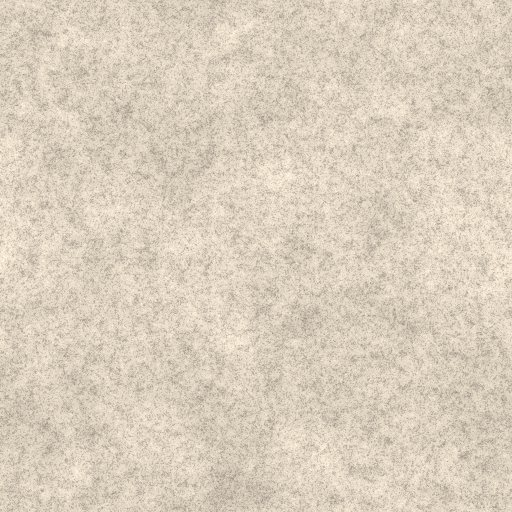
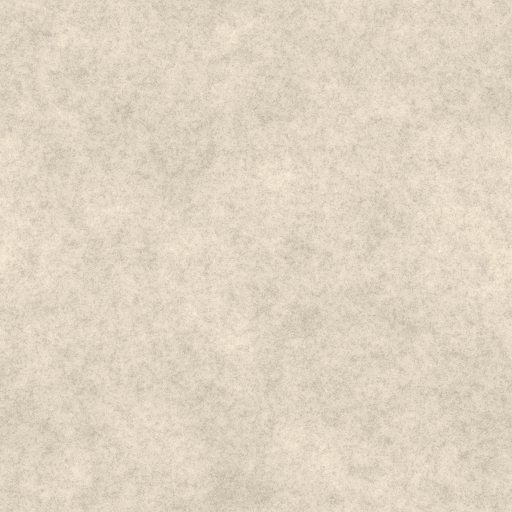
final: びんのなかのもり – 霧吹きで乾いた苔が緑にふくらむ写実ジャー、小石と小枝の橋、曇りふき、虫めがね
Claude-Session: https://claude.ai/code/session_017tygc2FTnojJb8NiA3C8BX

diff --git a/games/261127-57/js/main.js b/games/261127-57/js/main.js
@@ -682,9 +682,17 @@ function updateTools(dt) {
 }
 // orientation for a hand whose forearm reaches in from the lower-right of the view
 function armQuat(at, fingerBend, dorsalHint) {
-  const anchor = camera.position.clone().addScaledVector(camR, 0.26).addScaledVector(UP, -0.22).addScaledVector(camF, 0.05);
-  const arm = anchor.sub(at).normalize();
-  const fingers = arm.clone().negate().addScaledVector(UP, -fingerBend).normalize();
+  // the camera is the girl's eye. Inside the jar the forearm has to come in over the rim;
+  // outside it comes from her shoulder just below-right of the eye.
+  let elbow;
+  if (Math.hypot(at.x, at.z) < JAR.r + 0.01 && at.y < JAR.h) {
+    elbow = V3(at.x * 0.3 + 0.15, JAR.h + 0.14, Math.max(JAR.r + 0.05, at.z + 0.12));
+  } else {
+    const shoulder = camera.position.clone().addScaledVector(camR, 0.16).addScaledVector(UP, -0.17).addScaledVector(camF, -0.02);
+    elbow = shoulder.lerp(at, 0.5).addScaledVector(UP, -0.12);
+  }
+  const arm = elbow.sub(at).normalize();
+  const fingers = arm.clone().negate().addScaledVector(UP, -fingerBend * 0.3).normalize();
   return basis(fingers, dorsalHint || UP);
 }
 function placeHand(h, q, localPt, worldAt, dt, instant = false) {
@@ -723,9 +731,9 @@ function pump(obj, dir) {
     }
   }
   if (lingering) {
-    for (let i = 0; i < 10; i++) {
-      const p = tip.clone().addScaledVector(dir, 0.04 + Math.random() * 0.06);
-      particles.emit(2, p, dir.clone().multiplyScalar(0.05).add(V3((Math.random() - 0.5) * 0.02, -0.01, (Math.random() - 0.5) * 0.02)), 5 + Math.random() * 4, 0.012 + Math.random() * 0.01, 0.25);
+    for (let i = 0; i < 22; i++) {
+      const p = tip.clone().addScaledVector(dir, 0.08 + Math.random() * 0.14).add(V3((Math.random() - 0.5) * 0.04, 0, (Math.random() - 0.5) * 0.04));
+      particles.emit(2, p, dir.clone().multiplyScalar(0.02).add(V3((Math.random() - 0.5) * 0.03, -0.015, (Math.random() - 0.5) * 0.03)), 6 + Math.random() * 6, 0.022 + Math.random() * 0.025, 0.16);
     }
   }
   // spraying the flood again -> "huh?"
@@ -896,6 +904,17 @@ function placeTrain() {
     u -= (car.userData.len + 0.003) / circ;
   }
 }
+// dust motes drifting in the morning sunbeam (window -> table)
+let dustAcc = 0;
+function updateDust(dt) {
+  dustAcc += dt * 9;
+  while (dustAcc > 1) {
+    dustAcc -= 1;
+    const t = Math.random();
+    const p = V3(-0.45 + Math.random() * 0.9, 0.05 + Math.random() * 0.7, -0.55 + Math.random() * 0.85);
+    particles.emit(3, p, V3((Math.random() - 0.5) * 0.006, (Math.random() - 0.5) * 0.004, (Math.random() - 0.5) * 0.006), 6 + t * 6, 0.0012 + Math.random() * 0.0015, 1);
+  }
+}
 function updateTown(dt) {
   if (train.running) train.speed = Math.min(0.045, train.speed + dt * 0.02);
   if (train.speed > 0) {
@@ -954,9 +973,9 @@ function updateDad(dt) {
     // a strong jet instead of mist
     dadHand.squeeze = 0.5 + 0.5 * Math.sin(T * 20);
     const tipW = tool.userData.tip.clone().applyMatrix4(tool.matrixWorld);
-    for (let i = 0; i < 6; i++) {
+    for (let i = 0; i < 9; i++) {
       const d = dir.clone().add(V3((Math.random() - 0.5) * 0.05, (Math.random() - 0.5) * 0.05, (Math.random() - 0.5) * 0.05)).normalize();
-      particles.emit(1, tipW, d.multiplyScalar(1.2 + Math.random() * 0.4), 0.8, 0.0012 + Math.random() * 0.0016);
+      particles.emit(1, tipW, d.multiplyScalar(1.2 + Math.random() * 0.4), 0.8, 0.0022 + Math.random() * 0.0025);
     }
     G.jetT = (G.jetT || 0) - dt;
     if (G.jetT <= 0) { sfx.jet(); G.jetT = 0.45; }
@@ -1140,7 +1159,7 @@ const FAST = !!Q.get('fast');
 function loop() {
   requestAnimationFrame(loop);
   const dt = Math.min(0.05, clock.getDelta());
-  const sub = DBG ? 6 : 1; // debug: fast-forward the simulation (headless rendering is slow)
+  const sub = G.freeze ? 0 : DBG ? 6 : 1; // debug: fast-forward the simulation (headless rendering is slow)
   for (let k = 0; k < sub; k++) {
     const d = DBG ? 0.05 : dt;
     updateFlow(d);
@@ -1153,6 +1172,7 @@ function loop() {
     stones.update(d, () => sfx.clack());
     twigs.update(d, () => sfx.twig());
     updateTown(d);
+    updateDust(d);
     girl.update(d); dad.update(d);
   }
   updateHints(DBG ? 0.3 : dt);
@@ -1191,8 +1211,12 @@ window.__api = {
   light: () => { G.lit = true; train.running = true; },
   cam: () => ({ pos: camera.position.toArray(), fov: camera.fov }),
   setCam: (p, t) => { cam.pos.set(...p); cam.tgt.set(...t); cam.t = 1; cam.shot = null; },
+  pcount: () => { let n = 0, k1 = 0; for (let i = 0; i < particles.cap; i++) if (particles.life[i] > 0) { n++; if (particles.kind[i] === 1) k1++; } return [n, k1]; },
+  armDir: () => V3(0, -1, 0).applyQuaternion(hand.group.quaternion).toArray().concat(hand.group.position.toArray(), camera.position.toArray()),
   handPos: () => hand.group.position.toArray(),
   look: (k = 0.45) => { const h = hand.group.position.clone(); const c = camera.position.clone(); const p = c.lerp(h, k); cam.pos.copy(p); cam.tgt.copy(h); cam.t = 1; cam.shot = null; },
+  pcount: () => { let n = 0, k1 = 0; for (let i = 0; i < particles.cap; i++) if (particles.life[i] > 0) { n++; if (particles.kind[i] === 1) k1++; } return [n, k1]; },
+  armDir: () => V3(0, -1, 0).applyQuaternion(hand.group.quaternion).toArray().concat(hand.group.position.toArray(), camera.position.toArray()),
   handPos: () => hand.group.position.toArray(),
   look: (k = 0.45) => { const h = hand.group.position.clone(); const c = camera.position.clone(); const p = c.lerp(h, k); cam.pos.copy(p); cam.tgt.copy(h); cam.t = 1; cam.shot = null; },
   parts: () => { let n = 0; for (let i = 0; i < particles.cap; i++) if (particles.life[i] > 0) n++; const t = tools.spray.obj.userData.tip.clone().applyMatrix4(tools.spray.obj.matrixWorld); return { n, tip: t.toArray(), free: particles.free.length, pump: G.pumpT, press: G.pressing, tp: G.touchPoint && G.touchPoint.toArray() }; },

diff --git a/games/261127-57/js/particles.js b/games/261127-57/js/particles.js
@@ -13,6 +13,7 @@ export class Particles {
     this.size = new Float32Array(cap);
     this.kind = new Uint8Array(cap);
     this.alpha = new Float32Array(cap);
+    this.a0 = new Float32Array(cap);
     this.free = [];
     for (let i = cap - 1; i >= 0; i--) this.free.push(i);
     const g = new THREE.BufferGeometry();
@@ -60,7 +61,7 @@ export class Particles {
             a = vA * (0.5 + 0.5 * pow(1.0 - z, 1.5));
             col = vec3(0.55, 0.62, 0.62) + uSunCol * (vPhase * 1.5 + exp(-dot(q - vec2(-0.3, 0.35), q - vec2(-0.3, 0.35)) * 40.0) * 3.0);
           } else if (vK < 2.5) { // steam puff
-            a = exp(-r2 * 2.2) * vA * 0.55;
+            a = exp(-r2 * 3.0) * vA * 0.5;
             col = vec3(0.92) + uSunCol * vPhase * 0.8;
           } else { // dust mote
             a = exp(-r2 * 5.0) * vA;
@@ -84,7 +85,7 @@ export class Particles {
     this.pos.set([p.x, p.y, p.z], i * 3);
     this.vel.set([v.x, v.y, v.z], i * 3);
     this.life[i] = life; this.max[i] = life;
-    this.size[i] = size; this.kind[i] = kind; this.alpha[i] = alpha;
+    this.size[i] = size; this.kind[i] = kind; this.alpha[i] = alpha; this.a0[i] = alpha;
     this.aKind.array[i] = kind;
   }
 
@@ -109,7 +110,12 @@ export class Particles {
       }
       P[o] += Vv[o] * dt; P[o + 1] += Vv[o + 1] * dt; P[o + 2] += Vv[o + 2] * dt;
       const fade = Math.min(1, this.life[i] / Math.min(0.4, this.max[i] * 0.5));
-      if (k === 2) { this.size[i] += dt * 0.012; this.alpha[i] = fade * 0.8; }
+      if (k === 2) {
+        this.size[i] += dt * 0.006; this.alpha[i] = fade * this.a0[i] * Math.min(1, (this.max[i] - this.life[i]) / 0.6);
+        const r = Math.hypot(P[o], P[o + 2]);
+        if (r > 0.14 && r < 0.2 && P[o + 1] < 0.27) { Vv[o] -= P[o] / r * dt * 0.05; Vv[o + 2] -= P[o + 2] / r * dt * 0.05; }
+        if (P[o + 1] < 0.1 && r < 0.16) Vv[o + 1] += dt * 0.03;
+      }
       else if (k === 3) { this.alpha[i] = fade * Math.min(1, (this.max[i] - this.life[i]) / 1.5) * 0.7; }
       else this.alpha[i] = Math.min(this.alpha[i], fade);
       if (collide && (k === 0 || k === 1)) {

diff --git a/games/261127-57/js/people.js b/games/261127-57/js/people.js
@@ -152,16 +152,17 @@ export class Figure {
     const hop = Math.max(0, Math.sin(this.t * 10)) * 0.045 * this.hop;
     this.mesh.position.y = hop;
     for (const m of this.extra) m.position.y = hop;
-    // arms: clap above the table / raise
+    // arms: hands up high and clap (visible from behind)
     const c = this.clap;
     const cl = Math.max(0, Math.sin(this.t * 14));
     if (b.upperL) {
-      rot(b.upperL, new THREE.Vector3(1, 0, 0), c * 0.9);
-      b.upperL.quaternion.multiply(_q.setFromAxisAngle(new THREE.Vector3(0, 1, 0), -c * (0.25 + 0.25 * cl)));
-      rot(b.upperR, new THREE.Vector3(1, 0, 0), c * 0.9);
-      b.upperR.quaternion.multiply(_q.setFromAxisAngle(new THREE.Vector3(0, 1, 0), c * (0.25 + 0.25 * cl)));
-      rot(b.foreL, new THREE.Vector3(0, 0, 1), -c * 0.6);
-      rot(b.foreR, new THREE.Vector3(0, 0, 1), c * 0.6);
+      const X = new THREE.Vector3(1, 0, 0), Z = new THREE.Vector3(0, 0, 1);
+      rot(b.upperL, X, c * 0.75);
+      b.upperL.quaternion.multiply(_q.setFromAxisAngle(Z, c * (0.05 + 0.22 * cl)));
+      rot(b.upperR, X, c * 0.75);
+      b.upperR.quaternion.multiply(_q.setFromAxisAngle(Z, -c * (0.05 + 0.22 * cl)));
+      rot(b.foreL, X, c * 0.35);
+      rot(b.foreR, X, c * 0.35);
     }
   }
 }

diff --git a/games/261127-57/tools/gen_textures.py b/games/261127-57/tools/gen_textures.py
@@ -278,11 +278,11 @@ def gen_plaster(S=512):
     trowel = np.clip(fftnoise(S, S, 3.5, seed=24), -0.5, 2)
     hgt += 0.5 * np.round(trowel * 2) / 2
     base = srgb([226, 214, 196])
-    c = base[None, None, :] * (1 + 0.035 * n1[..., None] + 0.02 * n2[..., None])
-    c -= 0.03 * np.clip(-n3, 0, 3)[..., None]
+    c = base[None, None, :] * (1 + 0.025 * n1[..., None] + 0.008 * n2[..., None])
+    c -= 0.008 * np.clip(-n3, 0, 3)[..., None]
     ao = ao_from_height(hgt, 4, 0.8)
-    save_rgb(c * (0.85 + 0.15 * ao[..., None]), 'plaster_c.jpg', 84)
-    save_rgb(normal_from_height(hgt, 1.0), 'plaster_n.jpg', 86)
+    save_rgb(c * (0.95 + 0.05 * ao[..., None]), 'plaster_c.jpg', 84)
+    save_rgb(normal_from_height(blur_wrap(hgt, 1.2), 0.8), 'plaster_n.jpg', 86)
     save_orm(ao, 0.88 + 0.08 * n2.clip(-1, 1), 0.0, 'plaster_orm.jpg')
     print('plaster done')
 

diff --git a/games/261127-57/NOTES.md b/games/261127-57/NOTES.md
@@ -1,0 +1,57 @@
+# びんのなかのもり（びんの中の小さな森）— 制作メモ
+
+## 作ったもの
+晩秋の朝、窓辺の机の上の大きなガラスびん。中には乾いて茶色く縮れた苔、小さな家、小さな線路と列車。
+白衣を着た女の子の「手」になって、霧吹き・小石・小枝・ふた・スポイト・虫めがねで小さな森を育てる。
+文字・数字は画面に一切出さない（タイトルタグのみ）。
+
+| 場面 | 触ること | 小さなゴール |
+|---|---|---|
+| はじまり | 帽子掛けの白衣をタップ → 白衣が女の子に飛んで着替える | 研究員になる |
+| 1 霧吹き | 押しているあいだ霧が出る。霧が落ちた所だけ苔が水を吸う。途中でパパが霧吹きを強くしすぎて水びたし → スポイトで吸ってコップに捨てる | 苔の6割が緑・水たまりが消える |
+| 2 小石・小枝・ふた | なぞった線に小石が並ぶ／小川をまたいでなぞると小枝の橋がかかる／ふたを閉めると内側が曇って結露し、指でなぞった線だけ晴れる | 小道＋橋＋ふた＋曇りふき |
+| 3 虫めがね | 当てた所が拡大して見える。家に当てると灯りがともり、列車に当てると出発 | 灯り＋出発 → その後は全部の道具で好きなだけ |
+
+- 変化は触った場所・長さ・回数・道具の分だけ起きる（全面一斉切替なし、毎回仕上がりが違う）。
+  - 苔: 128×128 の湿り気マップ。霧の粒子1つ1つが落ちた所に湿り気を足す。湿り気は毛細管的にゆっくりにじむが乾かない。上限を超えると水たまり（浅水流シミュレーション、低い所＝小川へ流れる）。
+  - 小石／小枝: なぞった軌跡を補間して一定間隔で置く（線路の上は避けて踏切にする）。小川の横断を検出すると橋。
+  - 曇り: 内壁の曇りテクスチャ（微細な霧）＋水滴の高さテクスチャ。ふいた線の両脇に押し寄せた水滴が並び、重い水滴はたれて筋を残す。
+- パパのやらかし: 霧吹きを強くしすぎ（ジェット）→「おっとっと」→ 女の子がスポイトで立て直す。水たまりに霧吹きを向けると「あれ?」と手が首をかしげるように揺れる。
+- ルールは絵の看板1枚（茶色い苔＋霧吹き→緑、小石の道→家、虫めがね→列車）。
+- 次に触る物はうっすら光って揺れ、数秒触らないと白い手が指さす（なぞる所はなぞる動き）。
+- 喜びは顔でなく体で：場面達成でカメラが引き、女の子（後ろ姿）が跳ねて拍手、パパがうなずく。声は短い「やったー!」など（端末の音声合成、無い端末では無音）。効果音はすべて WebAudio 合成。
+
+## 写実のためにしたこと
+- **素材はすべて PBR**（MeshStandard / MeshPhysical）。色・法線・粗さ・AO の地図を Python で手続き生成（`tools/gen_textures.py`）。
+  - 苔は「上から見た苔の芽を数万本、葉を1枚ずつ描く」ミニレンダラーで、乾いた（縮れて閉じた茶色）と濡れた（星形に開いた緑）を**同じ配置で**2枚描き、高さバッファから法線と AO を作った。
+  - オーク材（板目・導管・放射組織・ワニスの細かい傷）、しっくい、塗装木部（欠け）、土の地層（軽石・炭・砂利・細根）、小石、樹皮、綿ツイル（白衣）、リネン（カーテン）、ニット、ネルシャツ、デニム、肌の毛穴、髪の流れ、金属の傷、陶器、コルク、羽目板、屋根板。
+  - 当初は画像生成 API で写真テクスチャを作る予定だったが、接続先のクレジットが残っていなかったため全部手続き生成にした。
+- **触った所だけ見た目が変わる仕組み**: 湿り気・水深・小川マスクを1枚のデータテクスチャにまとめ、
+  - 地面: 色（茶→くすんだ緑→みずみずしい緑→濡れて濃い）、粗さ、頂点の膨らみ（乾くと縮み、濡れると約3.5mm ふくらむ）を湿り気で切り替え。
+  - 苔の芽（約5,000〜8,500本のインスタンス、1本35枚の葉）: 頂点シェーダーで湿り気を読み、乾くと葉が茎に巻きつき縮れ、濡れると星形に開いて伸び、色が変わる。逆光の朝日が薄い葉を透ける表現（透過光）付き。水に沈むと寝る。
+  - 葉先の水滴: 湿り気が高い所だけ出る球体インポスター。縁の暗さ・窓の映り込み・下側の屈折・朝日のきらめきを描く。
+  - 水たまり: 水深で高さと不透明度が変わる鏡面の水面＋さざ波。
+- **ガラス**: 反射だけを加算し、背景は少しだけ減衰させる薄いガラスのブレンド（フレネルで縁が光る）。中の土の地層がガラス越しに見える。曇りは前方散乱で朝日に光り、水滴は窓と太陽を映してきらめく。
+- **照明**: 11月下旬の朝。窓の後ろ左上の低い太陽（約4000K、暖色）、窓からの冷たい空の光、カメラ側の白い壁からの照り返し。小さな HDR 部屋（明るい窓・太陽円盤・暖色の壁）を PMREM にした環境マップ。VSM のふちがぼやけた影、物の下の接地 AO。ACES フィルミック＋sRGB。
+- **大きさは実物どおり**: びん直径32cm、苔の芽の高さ約5mm、小石4〜13mm、Zゲージ相当の線路（軌間6.5mm）、女の子110cm、パパ178cm（スツールに座る）、机の高さ72cm。カメラは約38mm相当（長辺基準）、女の子の目の高さ付近から見下ろす。窓の外は事前にぼかした庭（被写界深度）。
+- **人物**: カプセルの組み合わせを避け、符号付き距離場の骨・肉・服・髪をなめらかに合成 → マーチングキューブ → 間引き（`tools/gen_meshes.py`）。服のしわ・袖口の折り返し・スカートのプリーツ・ニットの畝・髪の束をジオメトリで作り、スキニングで動かす。顔の大写しは作らず、全身は後ろ姿、画面の主役は手元。
+- **手**: 最も大きく映るので、5歳児の手の比率（ふっくらした指・母指球・爪の領域）で作り、指を3関節ずつ骨で曲げる（握る・つまむ・指さす・持つ・引き金を引く・スポイトを押す）。白衣の袖は綿ツイルの織り目とねじれじわ。腕はびんの口の上から入る（ガラスを突き抜けない）。
+- **粒子**: 霧の粒は大きさ・速さ・寿命をばらつかせ、ヘニエイ–グリーンスタイン位相関数で逆光の朝日に光らせる。大粒の水滴は別の見た目。家の煙突ではなく列車の蒸気、窓辺のほこり用の種類も用意。
+
+## 重さへの配慮
+- 外部 CDN なし（three.js r170 を `lib/` に同梱）。最初の画面に要るテクスチャ（部屋・人物・苔の低解像度版）だけ待ち、残りは 4×4 の中間色の仮画像で描画しながら後から差し替え。苔の高解像度は最後。
+- 人物メッシュは位置と UV を16bit 量子化。
+- 虫めがねのレンダーターゲットは持っている間だけ描く。苔の芽は影を落とさない（地面が落とす）。
+- フレームレートを見てピクセル比を下げ、それでも重ければ苔の芽の本数を減らす自動調整。
+- iPhone 実機での fps は未計測（ヘッドレス環境の SwiftShader でしか描画できないため）。調整は上記の自動処理に任せている。
+
+## 確認したこと
+- iPhone 縦（390×844 / iPhone 13 エミュレーション）・横（844×390）、iPad 縦（834×1194）・横（1180×820）でスクリーンショットを撮り、道具の配置・カメラの寄り・腕の入り方・袖の穴・パパの頭が切れる構図などを直した。
+- 全フロー（白衣→霧吹き→パパ→スポイト→小石・橋→ふた→曇りふき→虫めがね→自由）を自動操作で通した。
+- コードから参照するローカルファイル60件がすべて実在することを1つずつ確認（`tex/*.jpg`、`mesh/people.*`、`lib/three.module.min.js`、`js/*.js`）。
+
+## ファイル
+- `index.html` — 通常の head/body。`js/main.js` を module で読むだけ。
+- `js/` — `main.js`（流れ・入力・カメラ・道具）、`moss.js`（苔と水のシミュレーション）、`jar.js`（ガラス・曇り・ふた）、`props.js`（道具・家・線路・列車・看板）、`people.js`（手・人物）、`room.js`（部屋と光）、`particles.js`、`audio.js`、`assets.js`。
+- `tex/`, `mesh/` — 生成物。`tools/` — 生成スクリプト（`python3 tools/gen_textures.py`, `python3 tools/gen_meshes.py`。numpy, Pillow, scikit-image, scipy, fast-simplification）。
+- `?dbg=s1|s2|s3|free` で各場面から始められる（開発用）。
